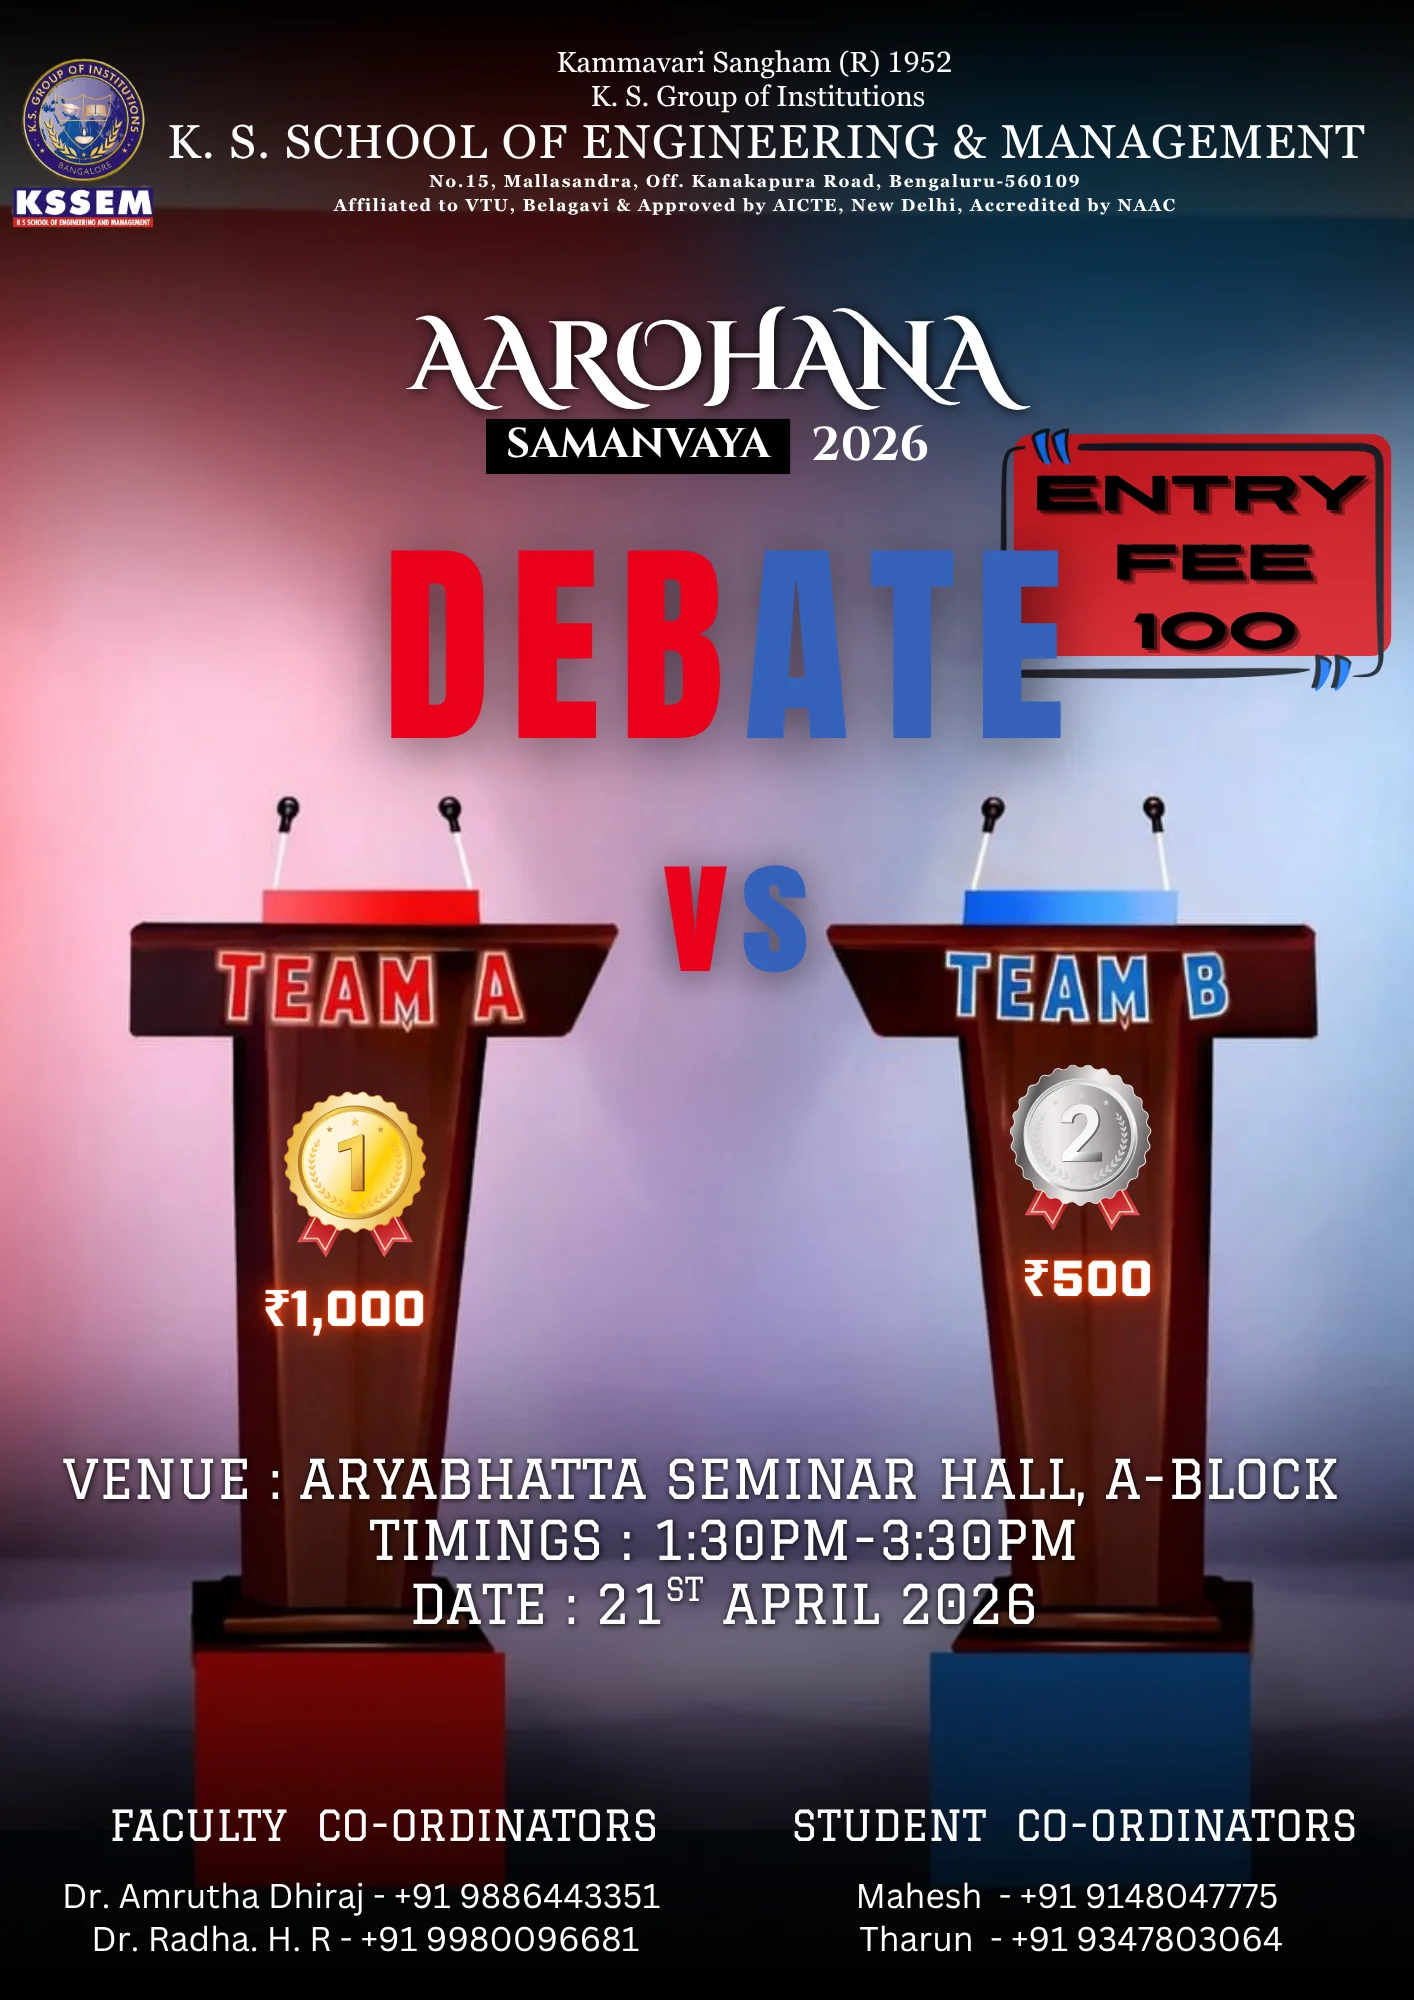
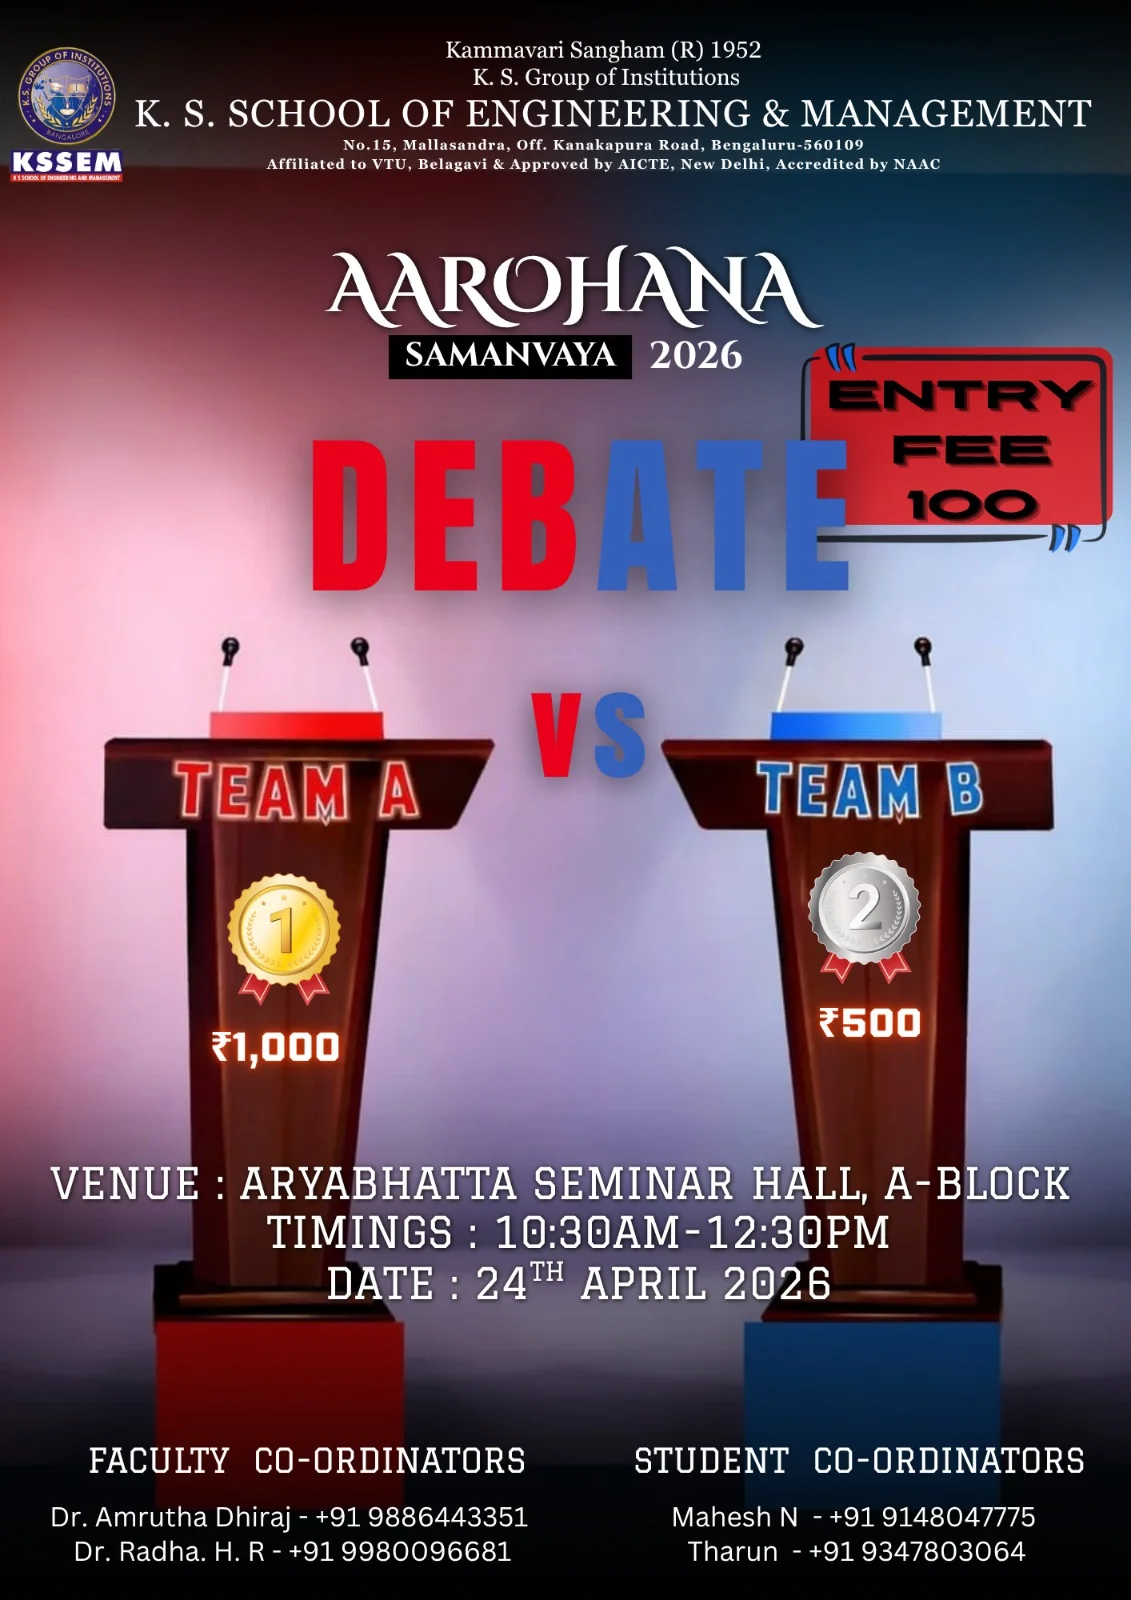
fix: update event dates and descriptions for Debate and Reels

Changed region(s): [[0.2166, 0.75, 0.8046, 0.8125], [0.588, 0.9375, 0.9284, 0.9688], [0.0309, 0.0312, 0.0928, 0.0938]]

diff --git a/events.html b/events.html
@@ -78,6 +78,8 @@
 
 
 
+
+
     <meta charset="UTF-8">
     <meta name="viewport" content="width=device-width, initial-scale=1.0">
     <title>Events - AAROHANA 2026</title>
@@ -178,13 +180,13 @@
                     </div>
                 </div>
 
-                <div class="event-card reveal tilt-card" data-title="Debate" data-type="Group" data-date="21/04/2026" data-time="" data-venue="Aryabhata Seminar Hall" data-fee="100" data-description="" data-rules="https://drive.google.com/file/d/1XlLVzQRuGtkc0vMN8LVnqaRvSrZ-zlCY/view?usp=sharing" data-konfhub-link="https://konfhub.com/checkout/aarohana2026?ticketId=95801">
+                <div class="event-card reveal tilt-card" data-title="Debate" data-type="Group" data-date="24/04/2026" data-time="" data-venue="Aryabhata Seminar Hall" data-fee="100" data-description="Postponed to 24th April" data-rules="https://drive.google.com/file/d/1XlLVzQRuGtkc0vMN8LVnqaRvSrZ-zlCY/view?usp=sharing" data-konfhub-link="https://konfhub.com/checkout/aarohana2026?ticketId=95801">
                     <img src="images/events/debate.webp" alt="Debate" class="event-poster-image">
                     <div class="card-glow"></div>
                     <div class="card-content">
                         <h3 class="bento-title">Debate</h3>
                         <div class="bento-meta">
-                            <span class="bento-date"><i class="fas fa-calendar-alt"></i> 21/04/2026</span>
+                            <span class="bento-date"><i class="fas fa-calendar-alt"></i> 24/04/2026</span>
                             <span class="bento-fee"><i class="fas fa-ticket-alt"></i> ₹100</span>
                             <span class="bento-type"><i class="fas fa-users"></i> Group</span>
                         </div>
@@ -576,15 +578,15 @@
                     </div>
                 </div>
 
-                <div class="event-card reveal tilt-card" data-title="Reels" data-type="Solo" data-date="21/04/2026" data-time="" data-venue="B218" data-fee="100" data-description="" data-rules="https://drive.google.com/file/d/1_Jt2sqODe8VyEJsPqv1hOiomblYBGwT2/view?usp=sharing" data-konfhub-link="https://konfhub.com/checkout/aarohana2026?ticketId=95800">
+                <div class="event-card reveal tilt-card" data-title="Reels" data-type="Group" data-date="24/04/2026" data-time="" data-venue="B218" data-fee="100" data-description="Postponed to 24th April" data-rules="https://drive.google.com/file/d/1_Jt2sqODe8VyEJsPqv1hOiomblYBGwT2/view?usp=sharing" data-konfhub-link="https://konfhub.com/checkout/aarohana2026?ticketId=95800">
                     <img src="images/events/reels.webp" alt="Reels" class="event-poster-image">
                     <div class="card-glow"></div>
                     <div class="card-content">
                         <h3 class="bento-title">Reels</h3>
                         <div class="bento-meta">
-                            <span class="bento-date"><i class="fas fa-calendar-alt"></i> 21/04/2026</span>
+                            <span class="bento-date"><i class="fas fa-calendar-alt"></i> 24/04/2026</span>
                             <span class="bento-fee"><i class="fas fa-ticket-alt"></i> ₹100</span>
-                            <span class="bento-type"><i class="fas fa-user"></i> Solo</span>
+                            <span class="bento-type"><i class="fas fa-users"></i> Group</span>
                         </div>
                         <div class="bento-cta">View Details →</div>
                     </div>
@@ -681,6 +683,10 @@
     </footer>
 
     <script src="script.js"></script>
+
+
+
+
 
 
 
